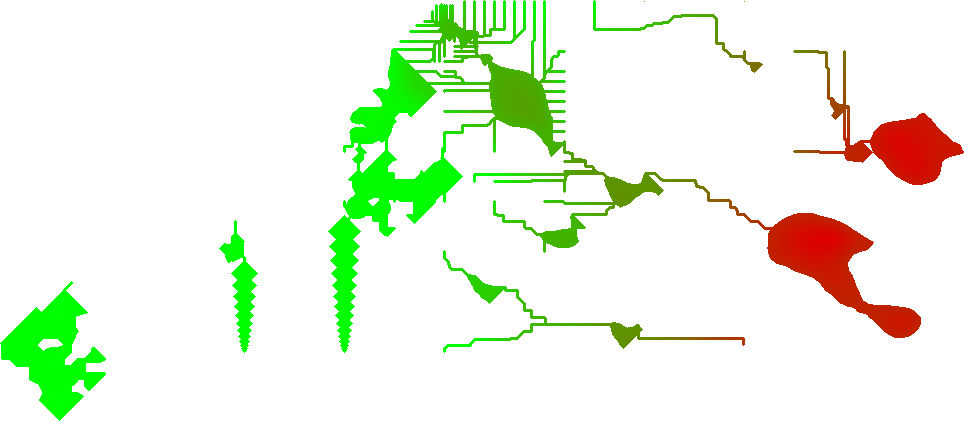
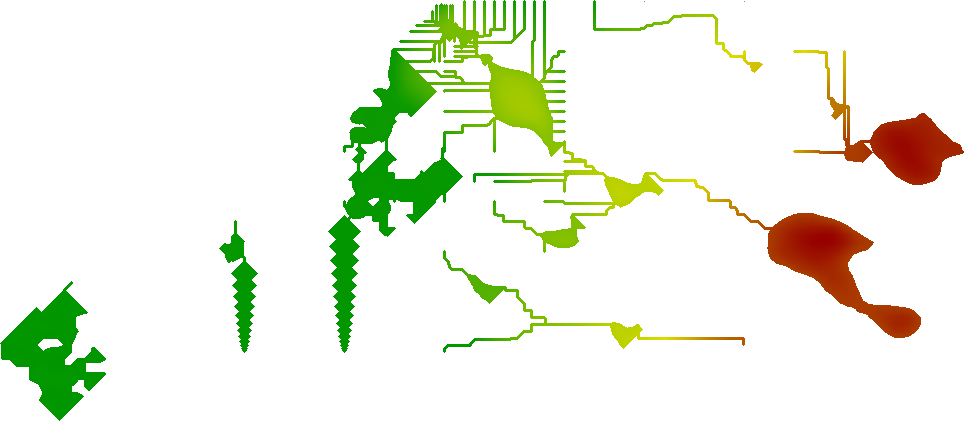
Better color scale

diff --git a/visualize.rb b/visualize.rb
@@ -9,7 +9,7 @@ $minele = $db.get_first_value("SELECT min(ele) FROM elevations;")
 $maxele = $db.get_first_value("SELECT max(ele) FROM elevations;")
 $width = (10000 * ($maxlng - $minlng) + 1).round
 $height = (10000 * ($maxlat - $minlat) + 1).round
-$color_scale = [[0, 220], [255, 0], [0, 0], [255, 255]]
+$color_scale = [[0, 220, 150], [150, 220, 0], [0, 0, 0], [255, 255, 255]]
 
 puts "Min elevation = #{$minele}, max elevation = #{$maxele}"
 
@@ -17,7 +17,12 @@ def get_color(ele)
   puts "Getting color for elevation #{ele}"
   ele_normalized = (ele - $minele) / ($maxele - $minele)
   color = $color_scale.map do |scale|
-            (ele_normalized * (scale[1] - scale[0]) + scale[0]).round
+            if ele_normalized < 0.5
+              (ele_normalized * 2 * (scale[1] - scale[0]) + scale[0]).round
+            else
+              ((ele_normalized - 0.5) * 2 * (scale[2] - scale[1]) + scale[1]).round
+            end
+            
           end
   puts color.inspect
   color
